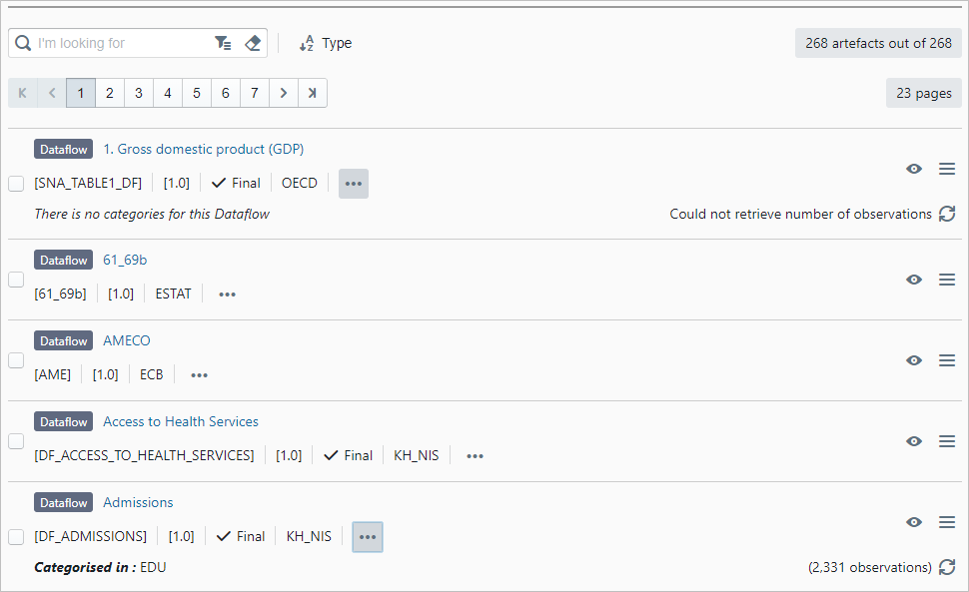
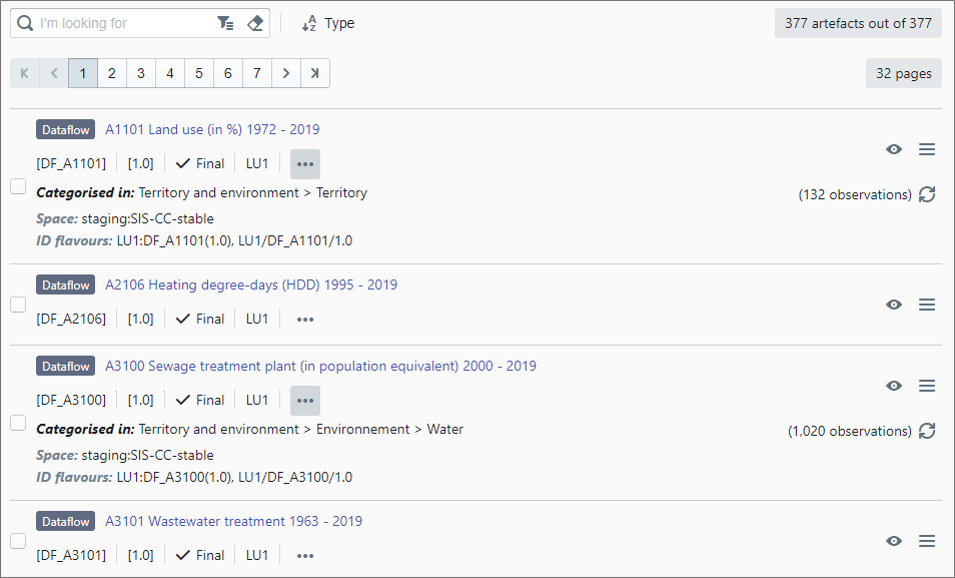
DLM ID flavours

diff --git a/content/using-dlm/dlm_overview.md b/content/using-dlm/dlm_overview.md
@@ -158,9 +158,11 @@ For each artefact, the following details are shown:
 ![dlm overview](/dotstatsuite-documentation/images/dlm-overview-10.png)
 
 For Dataflows **only**, The user can view the following additional information:
-* Preview: the eye icon opens the data table preview of a dataflow in a new tab of the application, by using the Data Explorer data view (see more in [this section](https://sis-cc.gitlab.io/dotstatsuite-documentation/using-dlm/preview-data/) of the documentation)
-* Categories with information about thematic categorisation. Note that a Dataflow can be categorised into one or more Categories
-* Number of observation values
+* **Preview:** the eye icon opens the data table preview of a dataflow in a new tab of the application, by using the Data Explorer data view (see more in [this section](https://sis-cc.gitlab.io/dotstatsuite-documentation/using-dlm/preview-data/) of the documentation)
+* **Number** of observation values
+* **Categories** with information about thematic categorisation. Note that a Dataflow can be categorised into one or more Categories
+* Space name
+* **ID flavours** with 2 alternative dataflow identification flavours: `AGENCY_ID:DATAFLOW_ID(VERSION)` and `AGENCY_ID/DATAFLOW_ID/VERSION`
 
 ![dlm overview](/dotstatsuite-documentation/images/dlm-overview-9.png)
 
